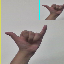
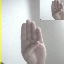
Finally Fixed some Issues

diff --git a/src/train.py b/src/train.py
@@ -8,6 +8,7 @@ from sklearn.utils.class_weight import compute_class_weight
 from collections import Counter
 from config import FLOW_OUTPUT, MODEL_SAVE_DIR, BATCH_SIZE, EPOCHS, N_FRAMES, IMG_SIZE
 
+from tensorflow.keras.regularizers import l2
 
 def load_flow_data(flow_dir):
     """Load all .npy flow files from a directory of label subfolders."""
@@ -22,8 +23,7 @@ def load_flow_data(flow_dir):
                 X.append(flow)
                 y.append(label)
     return np.array(X, dtype=np.float32), np.array(y)
-
-
+'''
 def build_cnn(n_classes, n_frames=N_FRAMES, img_size=IMG_SIZE):
     input_shape = (n_frames, img_size[0], img_size[1], 2)
     model = models.Sequential([
@@ -52,6 +52,50 @@ def build_cnn(n_classes, n_frames=N_FRAMES, img_size=IMG_SIZE):
         layers.Dropout(0.3),
         layers.Dense(n_classes, activation='softmax')
     ])
+    return model
+'''
+
+def build_cnn(n_classes, n_frames=N_FRAMES, img_size=IMG_SIZE):
+
+    input_shape = (n_frames, img_size[0], img_size[1], 2)
+
+    model = models.Sequential([
+
+        layers.Input(shape=input_shape),
+
+        layers.Reshape((n_frames * img_size[0],
+                         img_size[1], 2)),
+
+        layers.Conv2D(
+            16,
+            (3,3),
+            activation='relu',
+            padding='same',
+            kernel_regularizer=l2(1e-4)
+        ),
+        layers.BatchNormalization(),
+        layers.MaxPooling2D((2,2)),
+
+        layers.Conv2D(
+            32,
+            (3,3),
+            activation='relu',
+            padding='same',
+            kernel_regularizer=l2(1e-4)
+        ),
+        layers.BatchNormalization(),
+        layers.MaxPooling2D((2,2)),
+
+        layers.GlobalAveragePooling2D(),
+
+        layers.Dropout(0.6),
+
+        layers.Dense(
+            n_classes,
+            activation='softmax'
+        )
+    ])
+
     return model
 
 def train_model(task='word'):
@@ -96,9 +140,13 @@ def train_model(task='word'):
 
     # Build and compile
     model = build_cnn(n_classes)
-    model.compile(optimizer='adam',
-                  loss='categorical_crossentropy',
-                  metrics=['accuracy'])
+    model.compile(
+        optimizer='adam',
+        loss=tf.keras.losses.CategoricalCrossentropy(
+            label_smoothing=0.1
+        ),
+        metrics=['accuracy']
+    )
     model.summary()
 
     # Callbacks
@@ -111,28 +159,28 @@ def train_model(task='word'):
     reduce_lr = tf.keras.callbacks.ReduceLROnPlateau(
         monitor='val_loss',
         factor=0.5,
-        patience=5,
+        patience=3,
         verbose=1
     )
+    '''
     early_stop = tf.keras.callbacks.EarlyStopping(
         monitor='val_accuracy',
-        patience=30,
+        patience=5,
         restore_best_weights=True,
         verbose=1
     )
-
+'''
     model.fit(
         X_train, y_train_enc,
         batch_size=BATCH_SIZE,
         epochs=EPOCHS,
         validation_data=(X_test, y_test_enc),
-        callbacks=[checkpoint, reduce_lr, early_stop],
+        callbacks=[checkpoint, reduce_lr],
         class_weight=class_weight_dict
     )
 
     print(f"\n{task.upper()} model saved to {MODEL_SAVE_DIR}")
 
-
 if __name__ == '__main__':
-    train_model('word')
+   # train_model('word')
     train_model('alpha')

diff --git a/src/augment_flow.py b/src/augment_flow.py
@@ -10,7 +10,7 @@ from collections import Counter
 
 # ── Config ────────────────────────────────────────────────────────────────────
 FLOW_OUTPUT  = r'C:\Dataset\3_OpticalFlow'   # same as config.py
-TARGET_COUNT = 80   # how many train samples every class should have
+TARGET_COUNT =  120   # how many train samples every class should have
 SEED         = 42
 random.seed(SEED)
 np.random.seed(SEED)
@@ -35,7 +35,7 @@ def aug_time_stretch(flow, factor=None):
     """Subsample or repeat frames to simulate speed change."""
     T = flow.shape[0]
     if factor is None:
-        factor = random.uniform(0.75, 1.25)
+        factor = random.uniform(0.9, 1.1)
     new_len = int(T * factor)
     new_len = max(4, min(new_len, T * 2))
     indices = np.linspace(0, T - 1, new_len).astype(int)
@@ -102,7 +102,6 @@ def aug_rotate(flow, angle=None):
 AUGMENTATIONS = [
     aug_time_shift,
     aug_time_stretch,
-    aug_flip_horizontal,
     aug_add_noise,
     aug_scale_magnitude,
     aug_spatial_crop,

diff --git a/src/process_alpha_flows.py b/src/process_alpha_flows.py
@@ -4,8 +4,8 @@ import random
 import numpy as np
 from preprocess import extract_frames
 from hand_crop_flow import compute_flow_with_hand_crop
-from config import DYNAMIC_RAW, FLOW_OUTPUT, N_FRAMES, ALPHA_MAX_TRAIN, ALPHA_MAX_TEST
-
+from config import DYNAMIC_RAW, FLOW_OUTPUT, N_FRAMES
+from config import ALPHA_TRAIN_RATIO
 
 def process_alpha_split():
     train_base = os.path.join(FLOW_OUTPUT, 'alpha', 'train')
@@ -23,11 +23,10 @@ def process_alpha_split():
         random.shuffle(all_vids)
 
         # Cap test first, then cap train from remainder
-        test_vids  = all_vids[:ALPHA_MAX_TEST]
-        train_vids = all_vids[ALPHA_MAX_TEST: ALPHA_MAX_TEST + ALPHA_MAX_TRAIN]
+        split_idx  = int(len(all_vids) * ALPHA_TRAIN_RATIO)
+        train_vids = all_vids[:split_idx]
+        test_vids  = all_vids[split_idx:]
 
-        print(f"\n{label}: {len(train_vids)} train, {len(test_vids)} test "
-              f"(from {len(all_vids)} total, capped at {ALPHA_MAX_TRAIN}/{ALPHA_MAX_TEST})")
 
         # --- Train ---
         save_dir = os.path.join(train_base, label)

diff --git a/src/optical_flow.py b/src/optical_flow.py
@@ -3,9 +3,9 @@ import cv2
 import numpy as np
 import os
 from preprocess import extract_frames
-from config import WORD_TRAIN, WORD_TEST, FLOW_OUTPUT
+from config import WORD_TRAIN, WORD_TEST, FLOW_OUTPUT,N_FRAMES
 
-def compute_flow(frames, target_frames=15, img_size=(64, 64)):
+def compute_flow(frames, target_frames=N_FRAMES, img_size=(64, 64)):
     flows = []
     for i in range(len(frames) - 1):
         prev = cv2.cvtColor(frames[i],   cv2.COLOR_BGR2GRAY)
